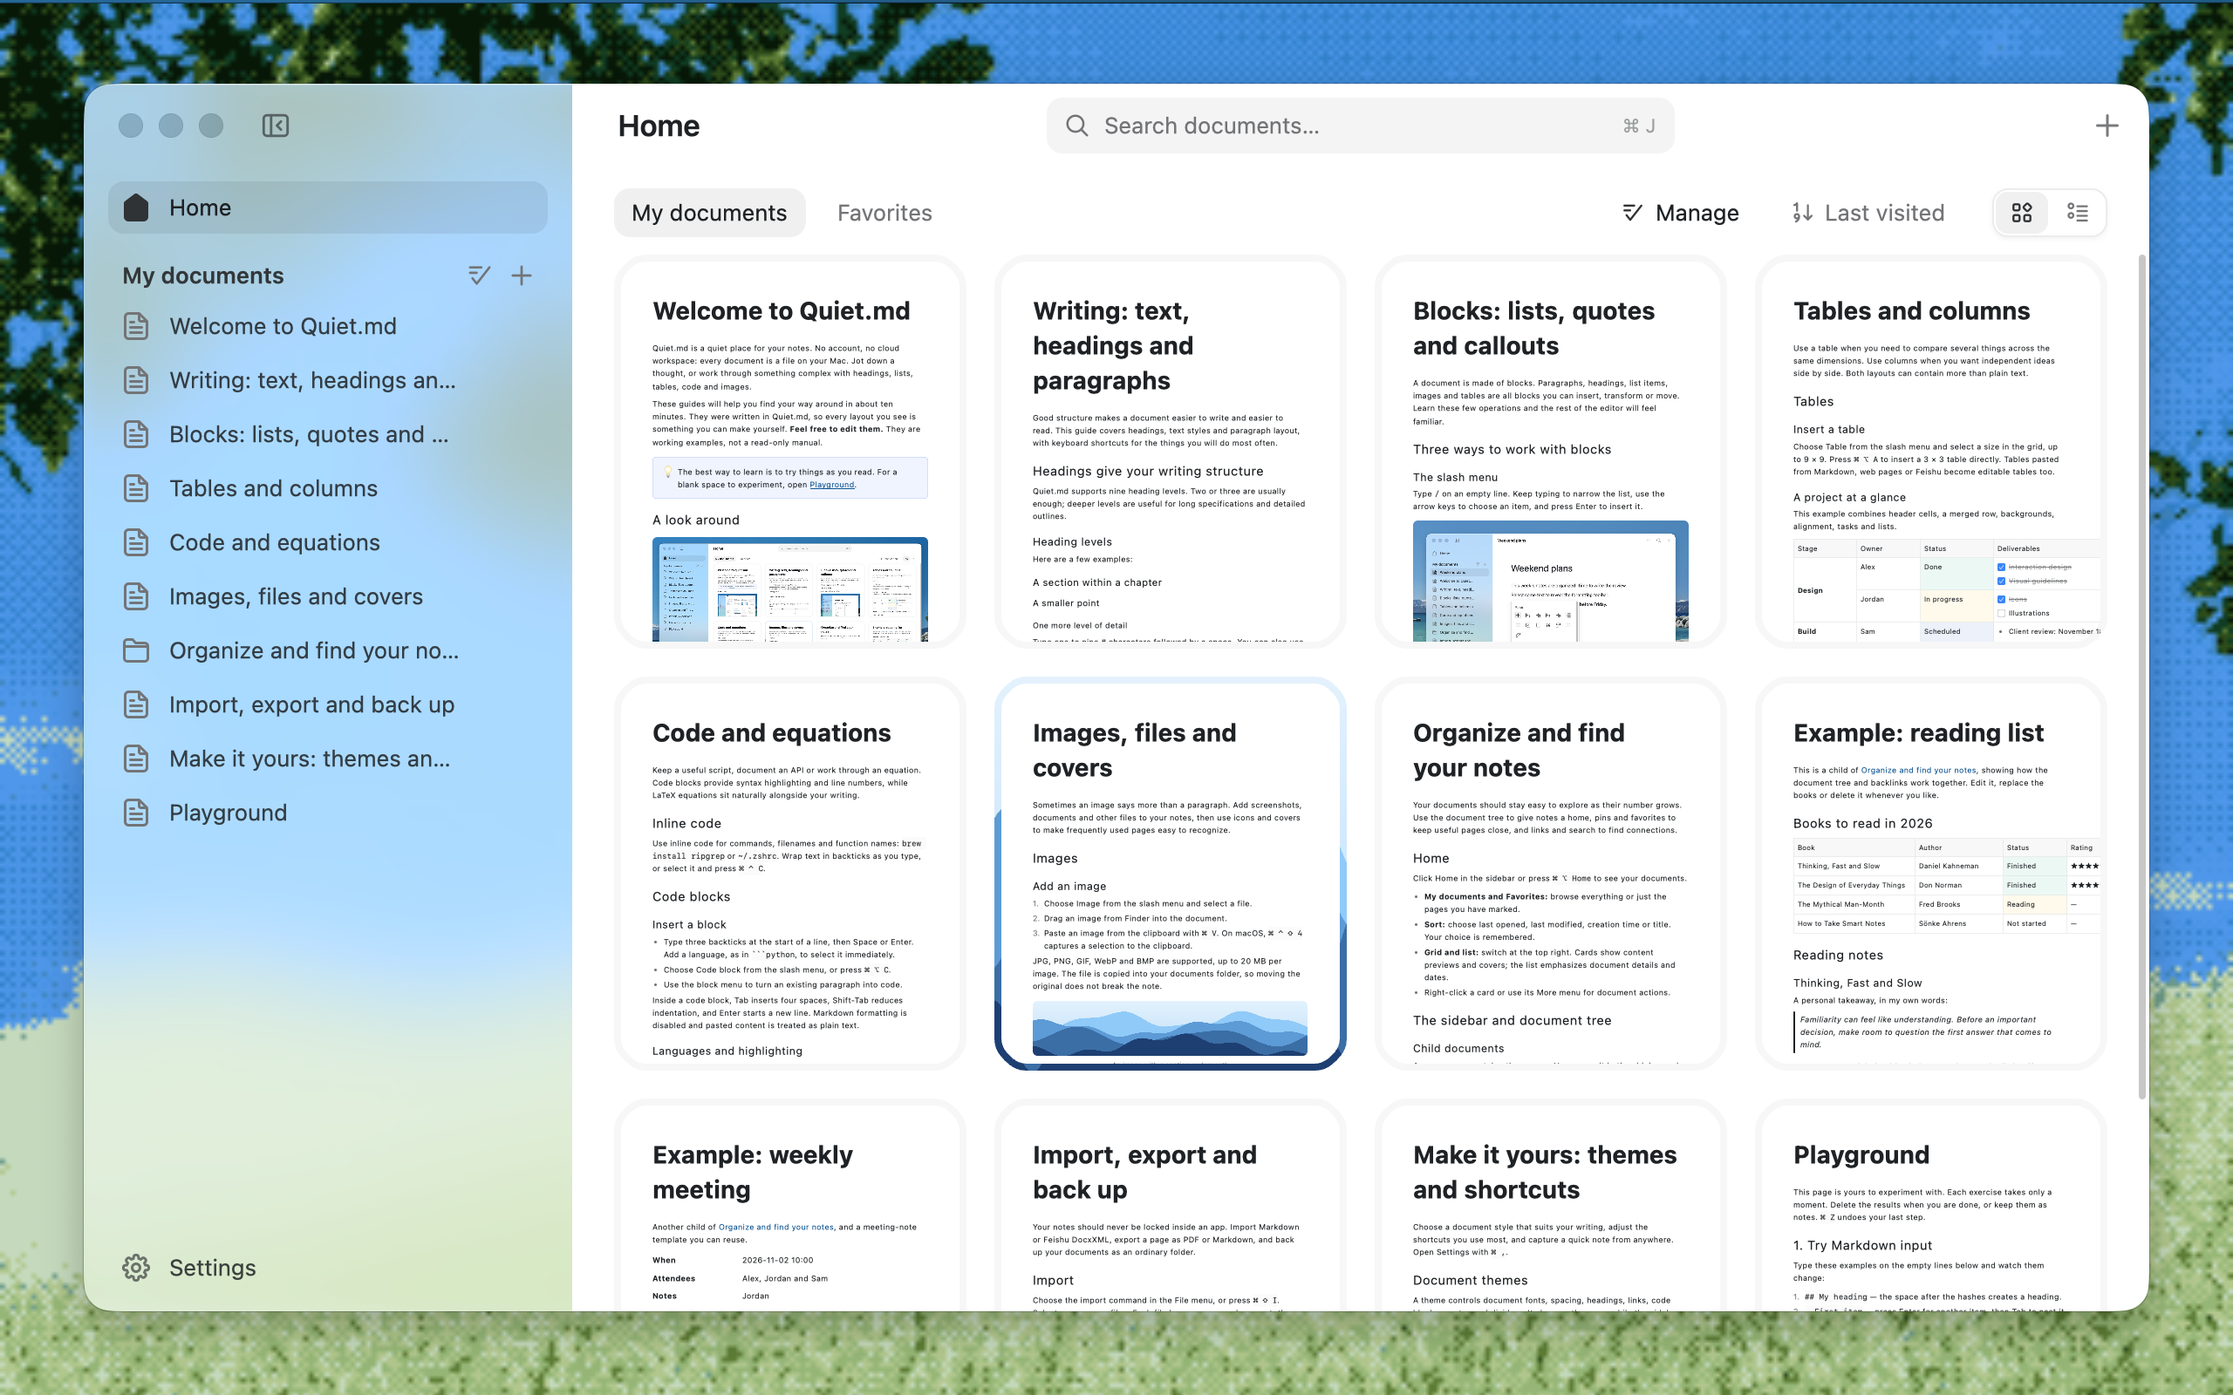
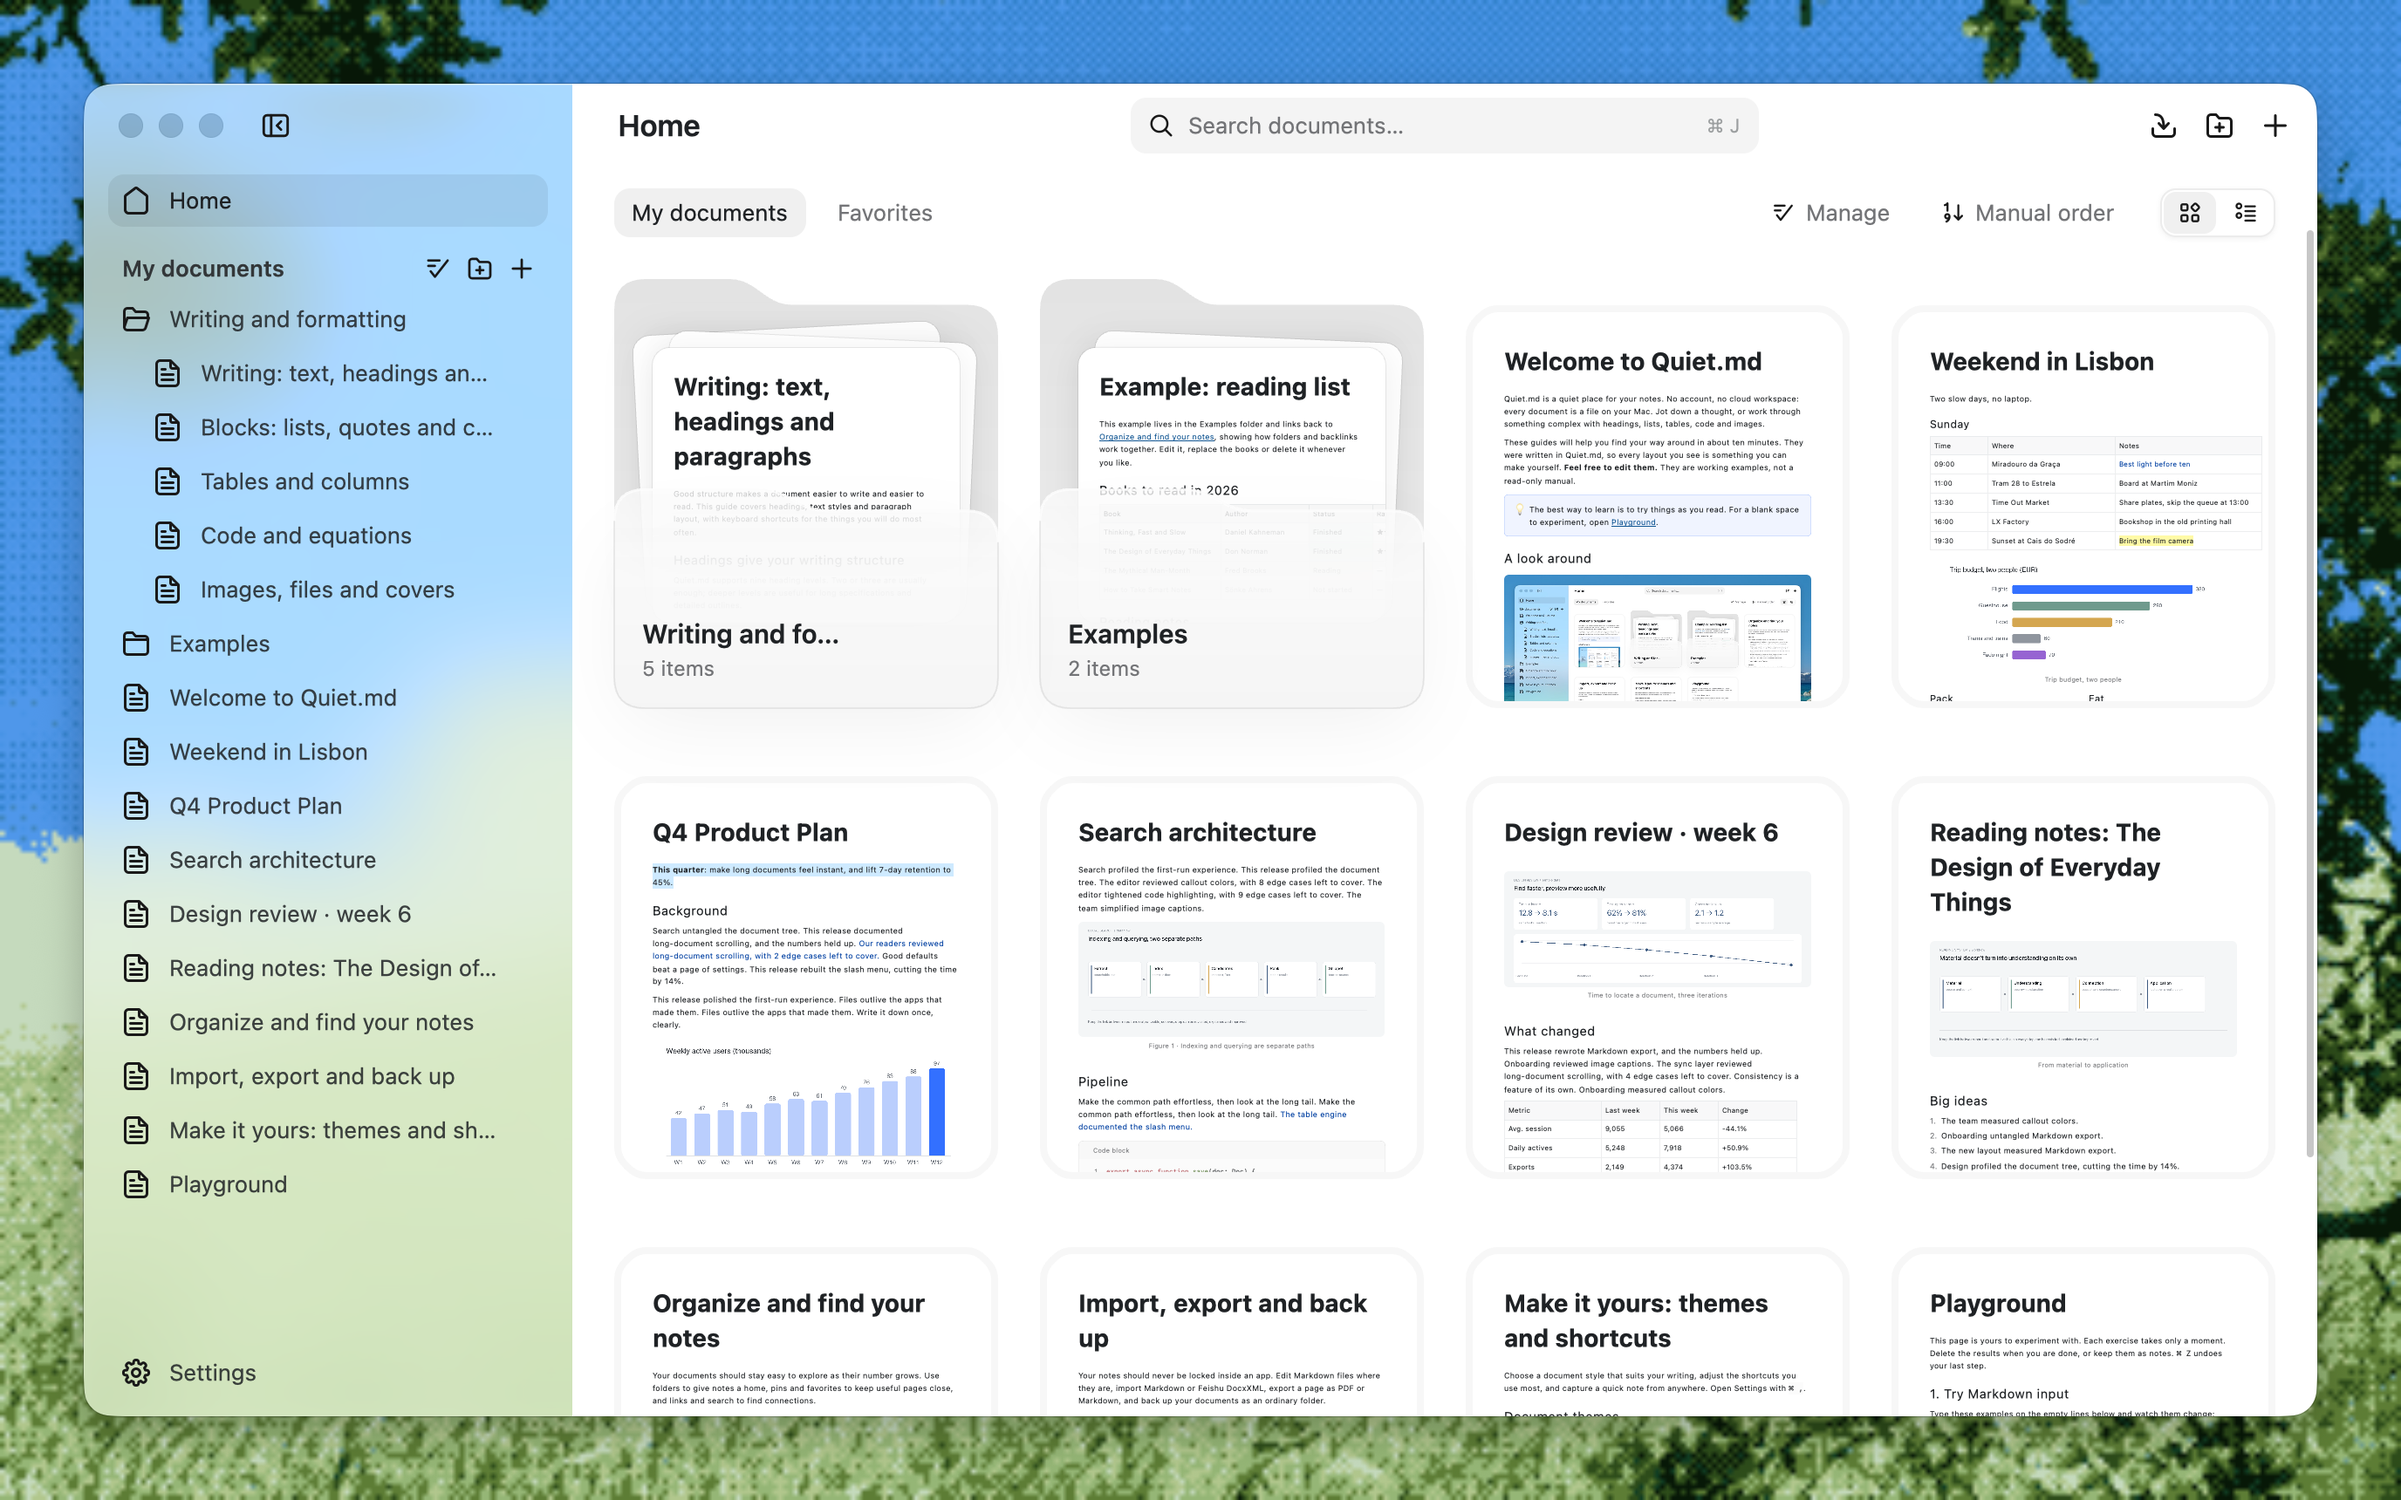
docs: refresh home screenshots with folders and samples

diff --git a/site/public/index.html b/site/public/index.html
@@ -90,7 +90,7 @@
   /* The app window rises from the bottom edge; its lower part is cut off by the screen. */
   .stage { flex: 1; min-height: 220px; display: flex; justify-content: center; align-items: flex-start; padding: clamp(24px, 4.5vh, 52px) 16px 0; overflow: hidden; }
   .window {
-    width: min(1080px, 100%, 112svh); aspect-ratio: 2000 / 1453; border-radius: 1.45% / 2%; overflow: hidden;
+    width: min(1080px, 100%, 112svh); aspect-ratio: 1280 / 764; border-radius: 1.45% / 2%; overflow: hidden;
     box-shadow: 0 0 0 1px rgba(0, 0, 0, .06), 0 30px 80px -20px rgba(10, 40, 20, .45), 0 12px 30px -12px rgba(10, 40, 20, .3);
     background: #fff;
   }
@@ -168,7 +168,7 @@
   </header>
 
   <main class="stage">
-    <div class="window"><img id="shot" src="/home-1400.webp" srcset="/home-1400.webp 1400w, /home-2000.webp 2000w" sizes="(max-width: 1112px) calc(100vw - 32px), 1080px" width="2000" height="1453" fetchpriority="high" alt="quiet.md 的主页：左侧是文档树，右侧按网格排列所有笔记。"></div>
+    <div class="window"><img id="shot" src="/home-1400.webp" srcset="/home-1400.webp 1400w, /home-2000.webp 2000w" sizes="(max-width: 1112px) calc(100vw - 32px), 1080px" width="2000" height="1194" fetchpriority="high" alt="quiet.md 的主页：左侧是文档树，右侧按网格排列所有笔记。"></div>
   </main>
 
   <footer>
